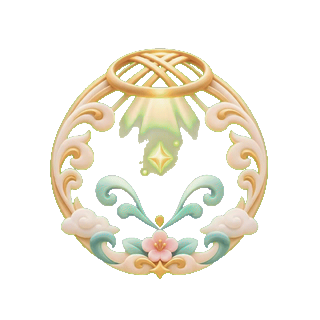
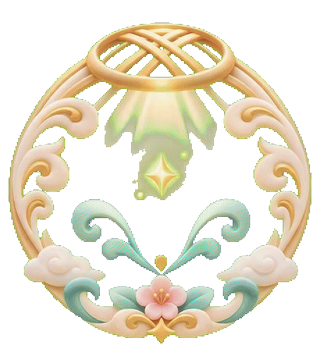
Polish stage labels, home animation and hydration card

diff --git a/mobile/src/components/HomeContent.tsx b/mobile/src/components/HomeContent.tsx
@@ -1,3 +1,5 @@
+import { RosieAnimation } from './RosieAnimation';
+import { rosieForWeek } from '../utils/rosie';
 import { InfoBadge } from './InfoBadge';
 import { useSvgId } from './useSvgId';
 import { useLanguage } from '../i18n/Language';
@@ -35,6 +37,7 @@ export function PregnancyHeader({ onSearch, scale: s, planning = false }: { onSe
   const insets = useSafeAreaInsets();
   const top = Math.max(insets.top + s(18), s(42));
   const height = s(planning ? 115 : 324) + Math.max(0, top - s(42));
+  const animation = result ? rosieForWeek(Math.min(result.weeks, 42)) : null;
   const radius = 79, circumference = 2 * Math.PI * radius;
   return <View style={{ height, width: '100%', paddingTop: top }}>
     <Svg pointerEvents="none" width={pageWidth} height={height} style={StyleSheet.absoluteFill} viewBox={`0 0 ${pageWidth} ${height}`}><Defs><LinearGradient id={heroId} x1="0" y1="0" x2="1" y2="1"><Stop offset="0" stopColor="#4ebeb1" /><Stop offset="1" stopColor="#007366" /></LinearGradient></Defs><Path d={`M0 0H${pageWidth}V${height - s(18)}Q${pageWidth / 2} ${height + s(18)} 0 ${height - s(22)}Z`} fill="#087f70" /><Path d={`M0 0H${pageWidth}V${height - s(18)}Q${pageWidth / 2} ${height + s(18)} 0 ${height - s(22)}Z`} fill={`url(#${heroId})`} /></Svg>
@@ -44,7 +47,8 @@ export function PregnancyHeader({ onSearch, scale: s, planning = false }: { onSe
       <View style={{ flex: 1, alignItems: 'center' }}><Text style={ [styles.headerStat, { fontSize: s(20) }] }>{result ? `${(result.progress * 100).toFixed(1)}%` : '—'}</Text><Text style={[styles.headerCaption, { fontSize: s(8) }]}>өтті</Text></View>
       <View accessibilityLabel={result ? `${result.weeks} апта ${result.days} күн` : 'Мерзім енгізілмеген'} style={{ width: s(166), height: s(166), alignItems: 'center', justifyContent: 'center' }}>
         <Svg pointerEvents="none" width={s(166)} height={s(166)} viewBox="0 0 166 166" style={StyleSheet.absoluteFill}><Circle cx="83" cy="83" r={radius} fill="none" stroke="#66c7b9" strokeOpacity={0.55} strokeWidth={2.5} /><Circle cx="83" cy="83" r={radius} fill="none" stroke="#fff" strokeWidth={2.5} strokeDasharray={`${circumference}`} strokeDashoffset={circumference * (1 - (result?.progress || 0))} transform="rotate(-90 83 83)" /></Svg>
-        <Text style={{ color: '#e7fcf7', fontSize: s(10), fontWeight: '600', letterSpacing: 1 }}>АПТА</Text><Text style={{ color: '#fff', fontSize: s(44), lineHeight: s(55), fontWeight: '700' }}>{result?.weeks ?? '—'}</Text><Text style={{ color: '#e7fcf7', fontSize: s(14), fontWeight: '600' }}>{result ? `+${result.days} күн` : 'мерзімді енгізіңіз'}</Text>
+        {animation && result ? <><RosieAnimation key={animation} kind={animation} width={s(124)} height={s(124)} label="Сәбидің анимациясы" /><Text style={{ color: '#fff', fontSize: s(12), lineHeight: s(18), fontWeight: '700', textAlign: 'center' }}>{result.weeks} апта {result.days} күн</Text></> : <><Text style={{ color: '#e7fcf7', fontSize: s(10), fontWeight: '600', letterSpacing: 1 }}>АПТА</Text><Text style={{ color: '#fff', fontSize: s(44), lineHeight: s(55), fontWeight: '700' }}>{result?.weeks ?? '—'}</Text><Text style={{ color: '#e7fcf7', fontSize: s(14), fontWeight: '600' }}>{result ? `+${result.days} күн` : 'мерзімді енгізіңіз'}</Text></>}
+
       </View>
       <View style={{ flex: 1, alignItems: 'center' }}><Text style={[styles.headerStat, { fontSize: s(20) }]}>{result ? Math.max(0, 280 - result.totalDays) : '—'}</Text><Text style={[styles.headerCaption, { fontSize: s(8) }]}>күн қалды</Text></View>
     </View>

diff --git a/mobile/src/components/HydrationReminder.tsx b/mobile/src/components/HydrationReminder.tsx
@@ -6,8 +6,10 @@ import { PrimaryButton } from './AuthUI';
 export function HydrationReminder({ scale: s }: { scale: (value: number) => number }) {
  const [open, setOpen] = useState(false);
  return <>
-  <Pressable accessibilityRole="button" accessibilityLabel="Су ішуді ұмытпаңыз" onPress={() => setOpen(true)} style={({ pressed }) => ({ position: 'absolute', right: s(5), bottom: s(-24), width: s(56), height: s(56), minWidth: 48, minHeight: 48, borderRadius: s(30), backgroundColor: '#fff', borderWidth: 1.5, borderColor: '#53c6b7', alignItems: 'center', justifyContent: 'center', boxShadow: '0px 4px 10px rgba(35,120,103,0.12)', opacity: pressed ? 0.75 : 1 })}>
-   <View pointerEvents="none"><RosieAnimation kind="water" width={s(40)} height={s(44)} label="Су тамшысы" /></View>
+  <Pressable accessibilityRole="button" accessibilityLabel="Су ішуді ұмытпаңыз" onPress={() => setOpen(true)} style={({ pressed }) => ({ width: '100%', marginTop: s(12), paddingVertical: s(12), paddingHorizontal: s(15), minHeight: s(82), borderRadius: s(22), backgroundColor: pressed ? '#d7f2ed' : '#eafaf7', borderWidth: 1, borderColor: '#b8e5dd', flexDirection: 'row', alignItems: 'center', gap: s(14), boxShadow: '0px 3px 10px rgba(35,120,103,0.06)' })}>
+   <View pointerEvents="none" style={{ width: s(56), height: s(60), borderRadius: s(19), backgroundColor: '#fff', alignItems: 'center', justifyContent: 'center' }}><RosieAnimation kind="water" width={s(43)} height={s(51)} label="Су тамшысы" /></View>
+   <Text style={{ flex: 1, color: '#197e70', fontSize: s(15), lineHeight: s(21), fontWeight: '700' }}>Су ішуді ұмытпаңыз</Text>
+   <View style={{ width: 29, height: 29, borderRadius: 15, backgroundColor: '#d1eee7', alignItems: 'center', justifyContent: 'center' }}><Text style={{ color: '#197e70', fontSize: 22 }}>›</Text></View>
   </Pressable>
   {open ? <PickerShell title="Су ішуді ұмытпаңыз" onClose={() => setOpen(false)}><View style={{ alignItems: 'center', marginVertical: 12 }}><RosieAnimation kind="water" width={100} height={110} label="Су тамшысы" /></View><Text style={{ color: '#386b5e', fontSize: 16, lineHeight: 25, textAlign: 'center', marginBottom: 24 }}>Өзіңізге кішкене үзіліс жасап, су ішуді есіңізге түсіріңіз.</Text><PrimaryButton title="Түсінікті" onPress={() => setOpen(false)} /></PickerShell> : null}
  </>;

diff --git a/mobile/src/app/tasks.tsx b/mobile/src/app/tasks.tsx
@@ -1,3 +1,4 @@
+import { HydrationReminder } from '../components/HydrationReminder';
 import { useState } from 'react';
 import { router } from 'expo-router';
 import { Linking, ScrollView } from 'react-native';
@@ -50,6 +51,7 @@ export default function TasksScreen() {
       <Pressable accessibilityRole="button" accessibilityLabel="Басты бетке оралу" onPress={() => router.canGoBack() ? router.back() : router.replace('/home')} style={{ flexDirection: 'row', alignItems: 'center', paddingHorizontal: s(10), minHeight: 44, alignSelf: 'flex-start' }}><Text style={{ color: '#279e90', fontSize: s(29), marginRight: s(5) }}>‹</Text><Text style={{ color: '#279e90', fontSize: s(20) }}>Басты бет</Text></Pressable>
       <Text accessibilityRole="header" style={{ color: '#080c0a', fontSize: s(29), lineHeight: s(36), fontWeight: '700', marginTop: s(13), marginBottom: s(35), paddingHorizontal: s(25) }}>Тапсырмалар тізімі</Text>
       <View style={{ paddingHorizontal: s(24), gap: s(26) }}>{prenatalSections.map(section => <TaskSection key={section.id} section={section} open={expanded.includes(section.id)} onToggle={() => setExpanded(previous => previous.includes(section.id) ? previous.filter(id => id !== section.id) : [...previous, section.id])} />)}
+        <HydrationReminder scale={s} />
         <Pressable accessibilityRole="button" onPress={() => router.push('/personal-tasks')} style={{ backgroundColor: '#ffffffc9', borderRadius: s(15), padding: s(16) }}><Text style={{ color: '#268f81', fontSize: s(14), fontWeight: '600' }}>Жеке тапсырмалар ›</Text></Pressable>
         <Text accessibilityRole="status" style={{ color: syncStatus === 'error' ? '#9e5149' : '#365d52', fontSize: s(11), textAlign: 'center' }}>{syncStatus === 'error' ? syncError : syncStatus === 'saving' ? 'Сақталуда…' : 'Тапсырмалар жеке аккаунтыңызға сақталады.'}</Text>
         {syncStatus === 'error' ? <Pressable accessibilityRole="button" onPress={() => void saveNow().catch(() => {})} style={{ padding: 12, alignItems: 'center' }}><Text style={{ color: '#8d403d' }}>Қайта сақтау</Text></Pressable> : null}

diff --git a/mobile/src/components/PregnantHome.tsx b/mobile/src/components/PregnantHome.tsx
@@ -25,7 +25,7 @@ export default function PregnantHome() {
   const visibleCards = cards.filter(card => `${t(card.title)} ${t(card.button)}`.toLocaleLowerCase().includes(q));
   const shareVisible = !q || t('Жақындарыңызбен бөлісіңіз').toLocaleLowerCase().includes(q);
   const width = pageWidth - s(48), height = s(170);
-  const renderCard = (card: typeof cards[number]) => <View key={card.id} style={{ position: 'relative', marginBottom: card.id === 'tasks' ? s(14) : 0 }}><View style={{ height, backgroundColor: card.colors[1], borderRadius: s(11), overflow: 'hidden', boxShadow: '0px 3px 4px rgba(0,0,0,0.18)' }}>
+  const renderCard = (card: typeof cards[number]) => <View key={card.id} style={{ position: 'relative', marginBottom: 0 }}><View style={{ height, backgroundColor: card.colors[1], borderRadius: s(11), overflow: 'hidden', boxShadow: '0px 3px 4px rgba(0,0,0,0.18)' }}>
           <Svg pointerEvents="none" width={width} height={height} style={{ position: 'absolute' }}><Defs><LinearGradient id={`${gradientPrefix}-${card.id}`} x1="0" y1="0" x2="1" y2="1"><Stop offset="0" stopColor={card.colors[0]} /><Stop offset="1" stopColor={card.colors[1]} /></LinearGradient></Defs><Path d={`M0 0H${width}V${height}H0Z`} fill={`url(#${gradientPrefix}-${card.id})`} />{[0, 1, 2, 3].map(i => <Circle key={i} cx={s([18, 90, 190, 35][i])} cy={s([25, 60, 24, 130][i])} r={s(11)} stroke="#fff" strokeOpacity={0.18} strokeWidth={3} fill="none" />)}</Svg>
           <Image source={card.image} accessible={false} resizeMode="contain" style={{ position: 'absolute', right: s(card.id === 'tv' ? -27 : -8), bottom: 0, width: s(card.id === 'tv' ? 166 : 127), height: s(card.id === 'tasks' ? 134 : 177) }} />
           <View style={{ flex: 1, justifyContent: 'flex-end', alignItems: 'flex-start', padding: s(15) }}>

diff --git a/mobile/src/app/stage.tsx b/mobile/src/app/stage.tsx
@@ -29,7 +29,7 @@ export default function StageScreen() {
               <Image source={option.image} accessible={false} resizeMode="contain" style={{ width: s(option.id === 'planning' ? 82 : 73), height: s(option.id === 'pregnant' ? 92 : 78), marginTop: s(option.id === 'pregnant' ? 12 : 0) }} />
             </View>
             <View style={{ flex: 1, minWidth: 0 }}>
-              <Text style={[styles.optionTitle, { fontSize: s(option.id === 'planning' ? 11.5 : 14), lineHeight: s(18) }]}>{option.title}</Text>
+              <Text style={[styles.optionTitle, { fontSize: s(14), lineHeight: s(18) }]}>{option.title}</Text>
               <Text style={[styles.optionBody, { fontSize: s(11.5), lineHeight: s(16), marginTop: s(5) }]}>{option.description}</Text>
             </View>
             <View style={{ width: s(29), height: s(29), borderRadius: s(18), backgroundColor: option.circle, alignItems: 'center', justifyContent: 'center' }}>

diff --git a/mobile/assets/animations/SOURCES.md b/mobile/assets/animations/SOURCES.md
@@ -19,3 +19,5 @@ At week 20 the 20+ clip takes precedence over the preceding range. The separate 
 - 3dgifmaker-heartbeat.gif → water-drop.webp: transparent animated reminder badge on the tasks card. Transparent margins cropped; full animation retained.
 
 The first-week asset is now replaced by user-supplied ROSIE_week1_transparent (2).gif for weeks 0–4, converted with source colors and transparency unchanged. Filenames retain their prior 1-4 naming for compatibility.
+
+For consistent visual size, weeks 0–4 use a fixed 460×506 crop around the combined non-transparent bounds of all GIF frames (with padding), scaled to 320px width. Motion and transparency retained.
